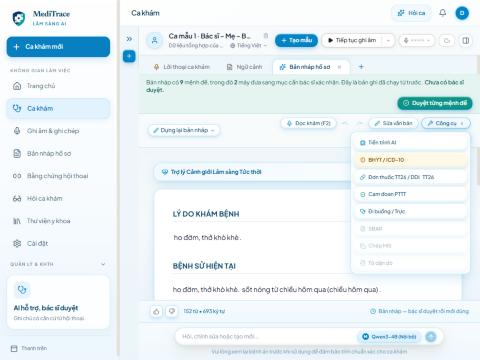
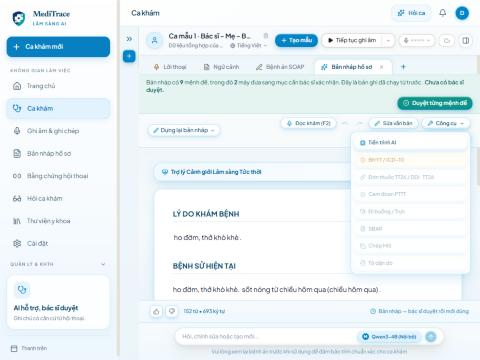
fix(web): khoa them BHYT/XML, don thuoc TT26, cam doan PTTT, di buong truoc khi ky; test quet moi loi xuat ho so
Phat hien cua ra soat doc lap. Test con bat them loi mo TT26 thu hai tu bang an toan lam sang.

Cong-cu-AI: claude_code

diff --git a/web/src/components/NoteEditorView.tsx b/web/src/components/NoteEditorView.tsx
@@ -1450,8 +1450,9 @@ export const NoteEditorView: React.FC<NoteEditorViewProps> = ({
           {/* Boost 5: Nút Tiền kiểm BHYT & ICD-10 (truyền đầy đủ thong_tin_benh_nhan + mệnh đề đã sửa/lọc) */}
           <button
             type="button"
-            disabled={dangKiemBhyt}
+            disabled={dangKiemBhyt || !dungHoSo.duoc}
             onClick={async () => {
+              if (!dungHoSo.duoc) return;
               setMoModalBhyt(true);
               setDangKiemBhyt(true);
               try {
@@ -1475,8 +1476,8 @@ export const NoteEditorView: React.FC<NoteEditorViewProps> = ({
                 setDangKiemBhyt(false);
               }
             }}
-            className="flex items-center gap-1 sm:gap-1.5 px-2.5 sm:px-3 py-1 text-xs border border-[#F5E6B8] bg-[#FEF9E7] hover:bg-[#FEF3C7] text-[#7A4B00] rounded-xl font-semibold shadow-tactile-doctor-pill transition-all active:scale-95 whitespace-nowrap cursor-pointer flex-shrink-0"
-            title="Tiền kiểm mã ICD-10 (4 ký tự), Biện luận CLS XML3/4 ↔ XML5 & Xuất gói XML1–XML5 QĐ 130/4750"
+            className={`flex items-center gap-1 sm:gap-1.5 px-2.5 sm:px-3 py-1 text-xs border border-[#F5E6B8] bg-[#FEF9E7] hover:bg-[#FEF3C7] text-[#7A4B00] rounded-xl font-semibold shadow-tactile-doctor-pill transition-all active:scale-95 whitespace-nowrap cursor-pointer flex-shrink-0${lopNutKhoa}`}
+            title={dungHoSo.lyDo ?? "Tiền kiểm mã ICD-10 (4 ký tự), Biện luận CLS XML3/4 ↔ XML5 & Xuất gói XML1–XML5 QĐ 130/4750"}
           >
             <ShieldAlert size={12} className="text-[#B45309]" />
             <span className="text-[11px] hidden lg:inline">{dangKiemBhyt ? "Đang kiểm..." : "BHYT / ICD-10"}</span>
@@ -1485,9 +1486,10 @@ export const NoteEditorView: React.FC<NoteEditorViewProps> = ({
           {/* Boost 6: Nút Đối soát Đa thuốc & Đơn thuốc Quốc gia TT 26/2025 */}
           <button
             type="button"
-            onClick={() => setMoModalThuocTt26(true)}
-            className="flex items-center gap-1 sm:gap-1.5 px-2.5 sm:px-3 py-1 text-xs border border-[#BAE6FD] bg-white hover:bg-[#F0F9FF] text-[#0C4A6E] rounded-xl font-medium shadow-tactile-doctor-pill transition-all active:scale-95 whitespace-nowrap cursor-pointer flex-shrink-0"
-            title="Đối soát Đa thuốc ở nhà (DDI/ATC/ACB) & Lập nháp Đơn thuốc Quốc gia Thông tư 26/2025/TT-BYT"
+            disabled={!dungHoSo.duoc}
+            onClick={() => dungHoSo.duoc && setMoModalThuocTt26(true)}
+            className={`flex items-center gap-1 sm:gap-1.5 px-2.5 sm:px-3 py-1 text-xs border border-[#BAE6FD] bg-white hover:bg-[#F0F9FF] text-[#0C4A6E] rounded-xl font-medium shadow-tactile-doctor-pill transition-all active:scale-95 whitespace-nowrap cursor-pointer flex-shrink-0${lopNutKhoa}`}
+            title={dungHoSo.lyDo ?? "Đối soát Đa thuốc ở nhà (DDI/ATC/ACB) & Lập nháp Đơn thuốc Quốc gia Thông tư 26/2025/TT-BYT"}
           >
             <Pill size={12} className="text-[#0284C7]" />
             <span className="text-[11px] hidden xl:inline">Đơn thuốc TT26 / DDI</span>
@@ -1497,9 +1499,10 @@ export const NoteEditorView: React.FC<NoteEditorViewProps> = ({
           {/* Boost 8: Nút Cam đoan Thủ thuật / Phẫu thuật WORM (Luật KBCB 2023) */}
           <button
             type="button"
-            onClick={() => setMoModalCamDoanPttt(true)}
-            className="flex items-center gap-1 sm:gap-1.5 px-2.5 sm:px-3 py-1 text-xs border border-[#BAE6FD] bg-white hover:bg-[#F0F9FF] text-[#0C4A6E] rounded-xl font-medium shadow-tactile-doctor-pill transition-all active:scale-95 whitespace-nowrap cursor-pointer flex-shrink-0"
-            title="Kiểm định 6 trụ cột Điều 10 & 63 Luật KBCB 2023 & Xuất Phiếu Cam Đoan PTTT đóng dấu WORM"
+            disabled={!dungHoSo.duoc}
+            onClick={() => dungHoSo.duoc && setMoModalCamDoanPttt(true)}
+            className={`flex items-center gap-1 sm:gap-1.5 px-2.5 sm:px-3 py-1 text-xs border border-[#BAE6FD] bg-white hover:bg-[#F0F9FF] text-[#0C4A6E] rounded-xl font-medium shadow-tactile-doctor-pill transition-all active:scale-95 whitespace-nowrap cursor-pointer flex-shrink-0${lopNutKhoa}`}
+            title={dungHoSo.lyDo ?? "Kiểm định 6 trụ cột Điều 10 & 63 Luật KBCB 2023 & Xuất Phiếu Cam Đoan PTTT đóng dấu WORM"}
           >
             <ShieldCheck size={12} className="text-[#0D9488]" />
             <span className="text-[11px] hidden xl:inline">Cam đoan PTTT</span>
@@ -1508,9 +1511,10 @@ export const NoteEditorView: React.FC<NoteEditorViewProps> = ({
           {/* Boost 10: Nút Đi buồng Nội trú TT 32/2023 & Sổ Bàn giao Ca trực */}
           <button
             type="button"
-            onClick={() => setMoModalDiBuong(true)}
-            className="flex items-center gap-1 sm:gap-1.5 px-2.5 sm:px-3 py-1 text-xs border border-[#BAE6FD] bg-white hover:bg-[#F0F9FF] text-[#0C4A6E] rounded-xl font-medium shadow-tactile-doctor-pill transition-all active:scale-95 whitespace-nowrap cursor-pointer flex-shrink-0"
-            title="Tờ điều trị Nội trú Mẫu BV-01/BV2 (Thông tư 32/2023) & Sổ Bàn giao Ca trực Toàn khoa"
+            disabled={!dungHoSo.duoc}
+            onClick={() => dungHoSo.duoc && setMoModalDiBuong(true)}
+            className={`flex items-center gap-1 sm:gap-1.5 px-2.5 sm:px-3 py-1 text-xs border border-[#BAE6FD] bg-white hover:bg-[#F0F9FF] text-[#0C4A6E] rounded-xl font-medium shadow-tactile-doctor-pill transition-all active:scale-95 whitespace-nowrap cursor-pointer flex-shrink-0${lopNutKhoa}`}
+            title={dungHoSo.lyDo ?? "Tờ điều trị Nội trú Mẫu BV-01/BV2 (Thông tư 32/2023) & Sổ Bàn giao Ca trực Toàn khoa"}
           >
             <Stethoscope size={12} className="text-[#0284C7]" />
             <span className="text-[11px] hidden xl:inline">Đi buồng / Trực</span>
@@ -1729,7 +1733,7 @@ export const NoteEditorView: React.FC<NoteEditorViewProps> = ({
 
         <BangDongCoLamSangThucTinh
           clinicalSafety={noteMeta?.clinicalSafety}
-          onOpenPolypharmacyModal={() => setMoModalThuocTt26(true)}
+          onOpenPolypharmacyModal={() => dungHoSo.duoc && setMoModalThuocTt26(true)}
           onSelectSocratesChip={(chip) => {
             const capNhat = chenGhiNhanKhamTrucTiep(
               tabContentRef.current,

diff --git a/web/src/lib/loiRaHoSo.test.ts b/web/src/lib/loiRaHoSo.test.ts
@@ -1,0 +1,61 @@
+/**
+ * Mọi lối đưa hồ sơ ra khỏi phần mềm (chép, in, tải tệp) phải được biết trước và, nếu xuất HỒ SƠ,
+ * phải khóa trước khi bác sĩ ký (Đề cải tiến 1, phát hiện của rà soát độc lập 28/11).
+ *
+ * 1. Component nào có clipboard / window.print / tải tệp phải nằm trong một trong hai danh sách dưới.
+ *    Thêm component xuất mới mà quên phân loại thì test đỏ.
+ * 2. Trong NoteEditorView, mọi chỗ mở hộp xuất hồ sơ phải đi qua `dungHoSo.duoc`.
+ */
+import assert from "node:assert/strict";
+import fs from "node:fs";
+import path from "node:path";
+import test from "node:test";
+import { fileURLToPath } from "node:url";
+
+const THU_MUC = path.resolve(path.dirname(fileURLToPath(import.meta.url)), "../components");
+
+/** Hộp xuất HỒ SƠ (dữ liệu từ bản nháp) → setter mở nó trong NoteEditorView. */
+const HOP_XUAT_HO_SO: Record<string, string> = {
+  "BhytPrecheckModal.tsx": "setMoModalBhyt",
+  "BangDoiSoatThuocVaDonQuocGiaModal.tsx": "setMoModalThuocTt26",
+  "CamDoanThuThuatModal.tsx": "setMoModalCamDoanPttt",
+  "DiBuongNoiTruModal.tsx": "setMoModalDiBuong",
+  "SbarModal.tsx": "setMoModalSbar",
+  "HisSmartCopyPopover.tsx": "setMoPanelHis",
+  "ToDanDoBenhNhanModal.tsx": "setMoModalDanDo",
+};
+
+/** Có chép/tải nhưng KHÔNG phải hồ sơ đã soạn, kèm lý do. */
+const MIEN: Record<string, string> = {
+  "NoteEditorView.tsx": "chính màn bản nháp: các hàm chép/in/tải đều kiểm dungHoSo.duoc (choPhepDungHoSo.test.ts)",
+  "TranscriptView.tsx": "chép lời thoại gốc để đối chiếu, không phải hồ sơ đã soạn",
+  "EvidenceView.tsx": "chép câu trích căn cứ",
+  "ContextView.tsx": "chép ngữ cảnh bác sĩ tự nhập",
+  "ClinicalEvidenceDrawer.tsx": "chép trích dẫn tài liệu y khoa",
+  "TraLoiCoNguon.tsx": "chép câu trả lời tra cứu tài liệu",
+  "MenuTaiKhoan.tsx": "chép mã mời tài khoản",
+};
+
+const MAU_XUAT = /navigator\.clipboard|window\.print|createObjectURL|\.download\s*=/;
+
+test("moi_component_xuat_deu_duoc_phan_loai", () => {
+  const coXuat = fs
+    .readdirSync(THU_MUC)
+    .filter((t) => t.endsWith(".tsx") && MAU_XUAT.test(fs.readFileSync(path.join(THU_MUC, t), "utf-8")));
+  const chuaPhanLoai = coXuat.filter((t) => !(t in HOP_XUAT_HO_SO) && !(t in MIEN));
+  assert.deepEqual(chuaPhanLoai, [], "component có lối chép/in/tải chưa được phân loại");
+});
+
+test("moi_cho_mo_hop_xuat_ho_so_deu_kiem_ky", () => {
+  const dong = fs.readFileSync(path.join(THU_MUC, "NoteEditorView.tsx"), "utf-8").split("\n");
+  for (const setter of Object.values(HOP_XUAT_HO_SO)) {
+    const cho = dong
+      .map((d, i) => ({ d, i }))
+      .filter(({ d }) => new RegExp(`${setter}\\((true|\\(v\\))`).test(d));
+    assert.ok(cho.length > 0, `không thấy chỗ mở ${setter}`);
+    for (const { i } of cho) {
+      const canh = dong.slice(Math.max(0, i - 3), i + 1).join("\n");
+      assert.ok(/dungHoSo\.duoc/.test(canh), `${setter} ở dòng ${i + 1} mở được khi chưa ký`);
+    }
+  }
+});
